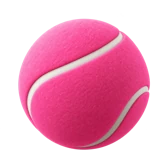
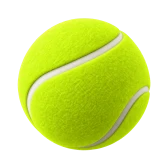
Green padel ball on the Padel tile (desktop and mobile)
Swap the pink ball for the green one from Figma 26417:5028 and sit it
16px from the tile's bottom-right on desktop, as designed.

diff --git a/styles/home.css b/styles/home.css
@@ -26,7 +26,7 @@
 /* Empty illustration slot — artwork supplied separately. Sized and placed as
    in Figma (42px, 20px in from the top-right; the Padel tile's sits low). */
 .spt__art{position:absolute;top:20px;right:20px;width:42px;height:42px;pointer-events:none}
-.spt__art--feature{top:auto;bottom:12px;right:16px;width:53px;height:53px}
+.spt__art--feature{top:auto;bottom:16px;right:16px;width:53px;height:53px}
 .spt__art--badminton{top:15.5px;right:27px;width:47px;height:47px}   /* Figma sizes the shuttle up */
 .spt__art img{position:relative;display:block;width:100%;height:100%;object-fit:contain}
 /* Soft ground shadow under the soccer ball (Figma Ellipse 35), drawn behind it. */
